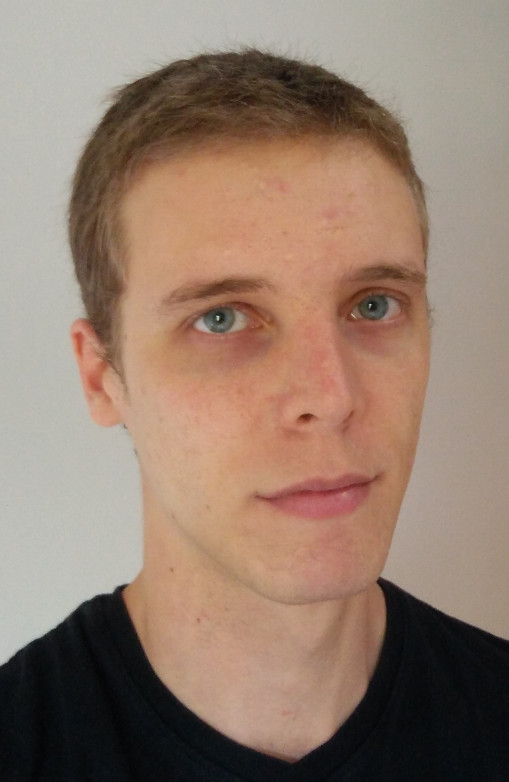
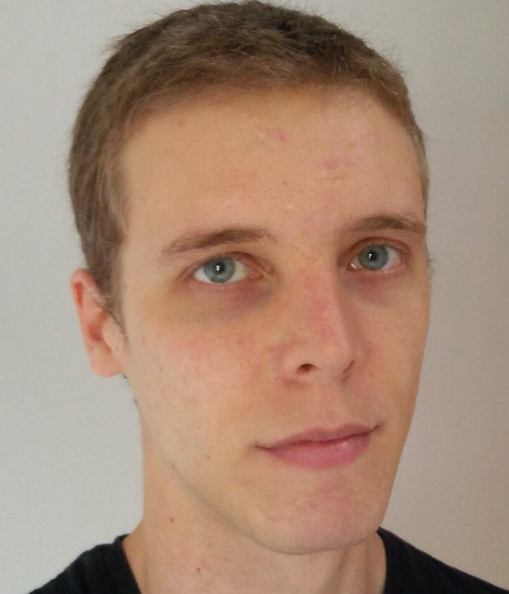
Minor update

diff --git a/header.html b/header.html
@@ -25,9 +25,10 @@
     }
     
     .my-image img {
-        width: 200px;
-        float: right;
-        margin-top: 30px;
+        display: block;
+        margin: auto;
+        width: 150px;
+        margin-top: 50px;
     }
     </style>
 

diff --git a/index.html b/index.html
@@ -25,9 +25,10 @@
     }
     
     .my-image img {
-        width: 200px;
-        float: right;
-        margin-top: 30px;
+        display: block;
+        margin: auto;
+        width: 150px;
+        margin-top: 50px;
     }
     </style>
 

diff --git a/work.html b/work.html
@@ -25,9 +25,10 @@
     }
     
     .my-image img {
-        width: 200px;
-        float: right;
-        margin-top: 30px;
+        display: block;
+        margin: auto;
+        width: 150px;
+        margin-top: 50px;
     }
     </style>
 
